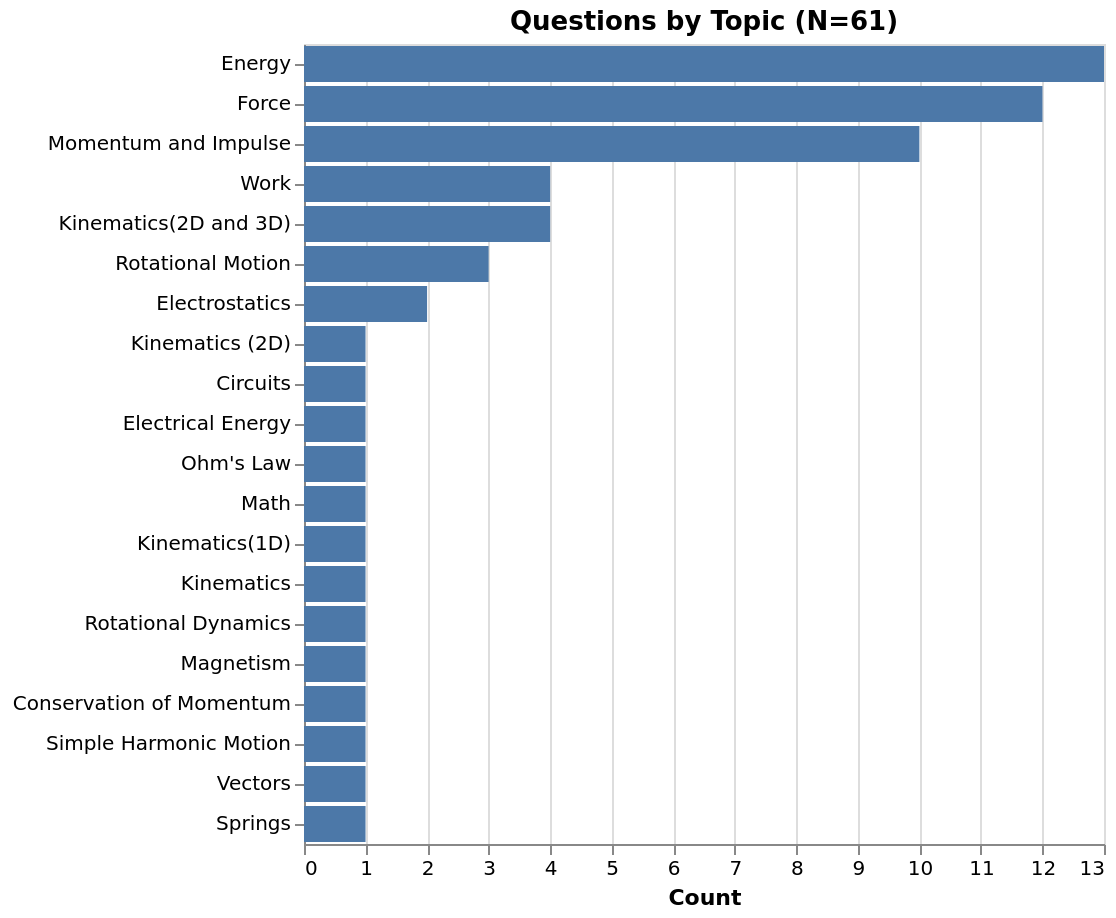
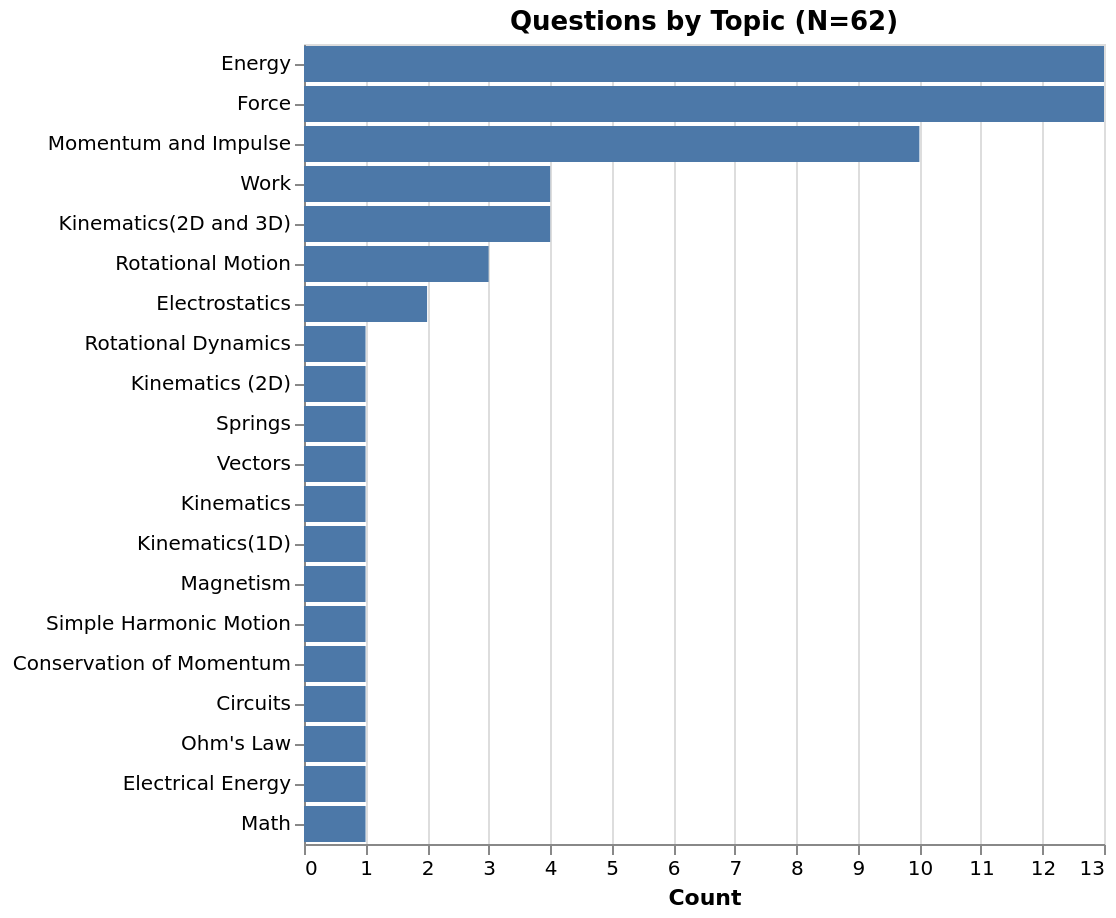
Update TOC via GH Action

diff --git a/content/index.md b/content/index.md
@@ -1,0 +1,67 @@
+# Question Index 
+ 
+ 
+ | Question | Public HTML | Public MD | Instructor MD | PL |
+| --------- | --------- | --------- | --------- | --------- |
+1 |  [Q 1](https://firas.moosvi.com/oer/physicsbank/content/content/public/002.Physics%20in%20General/Topic%20Outcome/test/test.html)| [Q 1](https://github.com/open-resources/physics_bank/blob/main/content/content/public/002.Physics%20in%20General/Topic%20Outcome/test/test.md) | [Q 1](https://github.com/open-resources/instructor_physics_bank/blob/main/output/content/instructor/002.Physics%20in%20General/Topic%20Outcome/test/test.md) | [TBD]() | 
+2 |  [Q 2](https://firas.moosvi.com/oer/physicsbank/content/content/public/008.Energy/Kinetic%20Energy/KE_testmass/KE_testmass.html)| [Q 2](https://github.com/open-resources/physics_bank/blob/main/content/content/public/008.Energy/Kinetic%20Energy/KE_testmass/KE_testmass.md) | [Q 2](https://github.com/open-resources/instructor_physics_bank/blob/main/output/content/instructor/008.Energy/Kinetic%20Energy/KE_testmass/KE_testmass.md) | [TBD]() | 
+3 |  [Q 3](https://firas.moosvi.com/oer/physicsbank/content/content/public/008.Energy/Kinetic%20Energy/KE_energy_momentum/KE_energy_momentum.html)| [Q 3](https://github.com/open-resources/physics_bank/blob/main/content/content/public/008.Energy/Kinetic%20Energy/KE_energy_momentum/KE_energy_momentum.md) | [Q 3](https://github.com/open-resources/instructor_physics_bank/blob/main/output/content/instructor/008.Energy/Kinetic%20Energy/KE_energy_momentum/KE_energy_momentum.md) | [TBD]() | 
+4 |  [Q 4](https://firas.moosvi.com/oer/physicsbank/content/content/public/008.Energy/Potential%20Energy/Collision%20of%20cart%20with%20spring/Collision%20of%20cart%20with%20spring.html)| [Q 4](https://github.com/open-resources/physics_bank/blob/main/content/content/public/008.Energy/Potential%20Energy/Collision%20of%20cart%20with%20spring/Collision%20of%20cart%20with%20spring.md) | [Q 4](https://github.com/open-resources/instructor_physics_bank/blob/main/output/content/instructor/008.Energy/Potential%20Energy/Collision%20of%20cart%20with%20spring/Collision%20of%20cart%20with%20spring.md) | [TBD]() | 
+5 |  [Q 5](https://firas.moosvi.com/oer/physicsbank/content/content/public/008.Energy/Topic%20Outcome/force_vs_position/force_vs_position.html)| [Q 5](https://github.com/open-resources/physics_bank/blob/main/content/content/public/008.Energy/Topic%20Outcome/force_vs_position/force_vs_position.md) | [Q 5](https://github.com/open-resources/instructor_physics_bank/blob/main/output/content/instructor/008.Energy/Topic%20Outcome/force_vs_position/force_vs_position.md) | [TBD]() | 
+6 |  [Q 6](https://firas.moosvi.com/oer/physicsbank/content/content/public/008.Energy/Topic%20Outcome/frictionless_track/frictionless_track.html)| [Q 6](https://github.com/open-resources/physics_bank/blob/main/content/content/public/008.Energy/Topic%20Outcome/frictionless_track/frictionless_track.md) | [Q 6](https://github.com/open-resources/instructor_physics_bank/blob/main/output/content/instructor/008.Energy/Topic%20Outcome/frictionless_track/frictionless_track.md) | [TBD]() | 
+7 |  [Q 7](https://firas.moosvi.com/oer/physicsbank/content/content/public/008.Energy/Topic%20Outcome/spring_oscillations/spring_oscillations.html)| [Q 7](https://github.com/open-resources/physics_bank/blob/main/content/content/public/008.Energy/Topic%20Outcome/spring_oscillations/spring_oscillations.md) | [Q 7](https://github.com/open-resources/instructor_physics_bank/blob/main/output/content/instructor/008.Energy/Topic%20Outcome/spring_oscillations/spring_oscillations.md) | [TBD]() | 
+8 |  [Q 8](https://firas.moosvi.com/oer/physicsbank/content/content/public/008.Energy/Conservation%20of%20Energy/dissipative_process/dissipative_process.html)| [Q 8](https://github.com/open-resources/physics_bank/blob/main/content/content/public/008.Energy/Conservation%20of%20Energy/dissipative_process/dissipative_process.md) | [Q 8](https://github.com/open-resources/instructor_physics_bank/blob/main/output/content/instructor/008.Energy/Conservation%20of%20Energy/dissipative_process/dissipative_process.md) | [TBD]() | 
+9 |  [Q 9](https://firas.moosvi.com/oer/physicsbank/content/content/public/008.Energy/Conservation%20of%20Energy/Energy%20lost%20to%20air%20friction/energy_lost_air_friction.html)| [Q 9](https://github.com/open-resources/physics_bank/blob/main/content/content/public/008.Energy/Conservation%20of%20Energy/Energy%20lost%20to%20air%20friction/energy_lost_air_friction.md) | [Q 9](https://github.com/open-resources/instructor_physics_bank/blob/main/output/content/instructor/008.Energy/Conservation%20of%20Energy/Energy%20lost%20to%20air%20friction/energy_lost_air_friction.md) | [TBD]() | 
+10 |  [Q 10](https://firas.moosvi.com/oer/physicsbank/content/content/public/008.Energy/Conservation%20of%20Energy/ball_race/2012Final_q3.html)| [Q 10](https://github.com/open-resources/physics_bank/blob/main/content/content/public/008.Energy/Conservation%20of%20Energy/ball_race/2012Final_q3.md) | [Q 10](https://github.com/open-resources/instructor_physics_bank/blob/main/output/content/instructor/008.Energy/Conservation%20of%20Energy/ball_race/2012Final_q3.md) | [TBD]() | 
+11 |  [Q 11](https://firas.moosvi.com/oer/physicsbank/content/content/public/008.Energy/Conservation%20of%20Energy/Physics%20of%20Roller%20Coasters/Physics%20of%20Roller%20Coasters.html)| [Q 11](https://github.com/open-resources/physics_bank/blob/main/content/content/public/008.Energy/Conservation%20of%20Energy/Physics%20of%20Roller%20Coasters/Physics%20of%20Roller%20Coasters.md) | [Q 11](https://github.com/open-resources/instructor_physics_bank/blob/main/output/content/instructor/008.Energy/Conservation%20of%20Energy/Physics%20of%20Roller%20Coasters/Physics%20of%20Roller%20Coasters.md) | [TBD]() | 
+12 |  [Q 12](https://firas.moosvi.com/oer/physicsbank/content/content/public/008.Energy/Conservation%20of%20Energy/Cut%20The%20Rope/Cut%20The%20Rope.html)| [Q 12](https://github.com/open-resources/physics_bank/blob/main/content/content/public/008.Energy/Conservation%20of%20Energy/Cut%20The%20Rope/Cut%20The%20Rope.md) | [Q 12](https://github.com/open-resources/instructor_physics_bank/blob/main/output/content/instructor/008.Energy/Conservation%20of%20Energy/Cut%20The%20Rope/Cut%20The%20Rope.md) | [TBD]() | 
+13 |  [Q 13](https://firas.moosvi.com/oer/physicsbank/content/content/public/008.Energy/Exploding_Asteroid/Exploding_Asteroid.html)| [Q 13](https://github.com/open-resources/physics_bank/blob/main/content/content/public/008.Energy/Exploding_Asteroid/Exploding_Asteroid.md) | [Q 13](https://github.com/open-resources/instructor_physics_bank/blob/main/output/content/instructor/008.Energy/Exploding_Asteroid/Exploding_Asteroid.md) | [TBD]() | 
+14 |  [Q 14](https://firas.moosvi.com/oer/physicsbank/content/content/public/011.Rotational%20Dynamics/Topic%20Outcome/thread_on_spool/thread_on_spool.html)| [Q 14](https://github.com/open-resources/physics_bank/blob/main/content/content/public/011.Rotational%20Dynamics/Topic%20Outcome/thread_on_spool/thread_on_spool.md) | [Q 14](https://github.com/open-resources/instructor_physics_bank/blob/main/output/content/instructor/011.Rotational%20Dynamics/Topic%20Outcome/thread_on_spool/thread_on_spool.md) | [TBD]() | 
+15 |  [Q 15](https://firas.moosvi.com/oer/physicsbank/content/content/public/005.Force/Topic%20Outcome/Frictionless%20Air%20Track/Frictionless%20Air%20Track.html)| [Q 15](https://github.com/open-resources/physics_bank/blob/main/content/content/public/005.Force/Topic%20Outcome/Frictionless%20Air%20Track/Frictionless%20Air%20Track.md) | [Q 15](https://github.com/open-resources/instructor_physics_bank/blob/main/output/content/instructor/005.Force/Topic%20Outcome/Frictionless%20Air%20Track/Frictionless%20Air%20Track.md) | [TBD]() | 
+16 |  [Q 16](https://firas.moosvi.com/oer/physicsbank/content/content/public/009.Work/Work-Energy%20Theorem/work_frictionless_surface/work_frictionless_surface.html)| [Q 16](https://github.com/open-resources/physics_bank/blob/main/content/content/public/009.Work/Work-Energy%20Theorem/work_frictionless_surface/work_frictionless_surface.md) | [Q 16](https://github.com/open-resources/instructor_physics_bank/blob/main/output/content/instructor/009.Work/Work-Energy%20Theorem/work_frictionless_surface/work_frictionless_surface.md) | [TBD]() | 
+17 |  [Q 17](https://firas.moosvi.com/oer/physicsbank/content/content/public/009.Work/Power/Energy%20Expenditure/Energy%20Expenditure.html)| [Q 17](https://github.com/open-resources/physics_bank/blob/main/content/content/public/009.Work/Power/Energy%20Expenditure/Energy%20Expenditure.md) | [Q 17](https://github.com/open-resources/instructor_physics_bank/blob/main/output/content/instructor/009.Work/Power/Energy%20Expenditure/Energy%20Expenditure.md) | [TBD]() | 
+18 |  [Q 18](https://firas.moosvi.com/oer/physicsbank/content/content/public/009.Work/Work/force_and_displacement/force_and_displacement.html)| [Q 18](https://github.com/open-resources/physics_bank/blob/main/content/content/public/009.Work/Work/force_and_displacement/force_and_displacement.md) | [Q 18](https://github.com/open-resources/instructor_physics_bank/blob/main/output/content/instructor/009.Work/Work/force_and_displacement/force_and_displacement.md) | [TBD]() | 
+19 |  [Q 19](https://firas.moosvi.com/oer/physicsbank/content/content/public/005.Kinematics%282D%20and%203D%29/Non-Uniform%20Circular%20Motion/Acceleration%20around%20a%20turn/Acceleration%20around%20a%20turn.html)| [Q 19](https://github.com/open-resources/physics_bank/blob/main/content/content/public/005.Kinematics%282D%20and%203D%29/Non-Uniform%20Circular%20Motion/Acceleration%20around%20a%20turn/Acceleration%20around%20a%20turn.md) | [Q 19](https://github.com/open-resources/instructor_physics_bank/blob/main/output/content/instructor/005.Kinematics%282D%20and%203D%29/Non-Uniform%20Circular%20Motion/Acceleration%20around%20a%20turn/Acceleration%20around%20a%20turn.md) | [TBD]() | 
+20 |  [Q 20](https://firas.moosvi.com/oer/physicsbank/content/content/public/005.Kinematics%282D%20and%203D%29/Non-Uniform%20Circular%20Motion/Turning_Car/Turning_car.html)| [Q 20](https://github.com/open-resources/physics_bank/blob/main/content/content/public/005.Kinematics%282D%20and%203D%29/Non-Uniform%20Circular%20Motion/Turning_Car/Turning_car.md) | [Q 20](https://github.com/open-resources/instructor_physics_bank/blob/main/output/content/instructor/005.Kinematics%282D%20and%203D%29/Non-Uniform%20Circular%20Motion/Turning_Car/Turning_car.md) | [TBD]() | 
+21 |  [Q 21](https://firas.moosvi.com/oer/physicsbank/content/content/public/005.Kinematics%282D%20and%203D%29/Projectile%20Motion/ski_jump/ski_jump.html)| [Q 21](https://github.com/open-resources/physics_bank/blob/main/content/content/public/005.Kinematics%282D%20and%203D%29/Projectile%20Motion/ski_jump/ski_jump.md) | [Q 21](https://github.com/open-resources/instructor_physics_bank/blob/main/output/content/instructor/005.Kinematics%282D%20and%203D%29/Projectile%20Motion/ski_jump/ski_jump.md) | [TBD]() | 
+22 |  [Q 22](https://firas.moosvi.com/oer/physicsbank/content/content/public/005.Kinematics%282D%20and%203D%29/Uniform%20Circular%20Motion/centripetal_force/centripetal_force.html)| [Q 22](https://github.com/open-resources/physics_bank/blob/main/content/content/public/005.Kinematics%282D%20and%203D%29/Uniform%20Circular%20Motion/centripetal_force/centripetal_force.md) | [Q 22](https://github.com/open-resources/instructor_physics_bank/blob/main/output/content/instructor/005.Kinematics%282D%20and%203D%29/Uniform%20Circular%20Motion/centripetal_force/centripetal_force.md) | [TBD]() | 
+23 |  [Q 23](https://firas.moosvi.com/oer/physicsbank/content/content/public/005.Kinematics%282D%20and%203D%29/Uniform%20Circular%20Motion/angular_speed/angular_speed.html)| [Q 23](https://github.com/open-resources/physics_bank/blob/main/content/content/public/005.Kinematics%282D%20and%203D%29/Uniform%20Circular%20Motion/angular_speed/angular_speed.md) | [Q 23](https://github.com/open-resources/instructor_physics_bank/blob/main/output/content/instructor/005.Kinematics%282D%20and%203D%29/Uniform%20Circular%20Motion/angular_speed/angular_speed.md) | [TBD]() | 
+24 |  [Q 24](https://firas.moosvi.com/oer/physicsbank/content/content/public/014.Elasticity/Topic%20Outcome/Identical%20Mass-Springs%20with%20different%20Displacement/Identical%20Mass-Springs%20with%20different%20Displacement.html)| [Q 24](https://github.com/open-resources/physics_bank/blob/main/content/content/public/014.Elasticity/Topic%20Outcome/Identical%20Mass-Springs%20with%20different%20Displacement/Identical%20Mass-Springs%20with%20different%20Displacement.md) | [Q 24](https://github.com/open-resources/instructor_physics_bank/blob/main/output/content/instructor/014.Elasticity/Topic%20Outcome/Identical%20Mass-Springs%20with%20different%20Displacement/Identical%20Mass-Springs%20with%20different%20Displacement.md) | [TBD]() | 
+25 |  [Q 25](https://firas.moosvi.com/oer/physicsbank/content/content/public/018.Electrostatics/Electric%20Potential/Particle%20between%20charged%20plates/Particle%20between%20charged%20plates.html)| [Q 25](https://github.com/open-resources/physics_bank/blob/main/content/content/public/018.Electrostatics/Electric%20Potential/Particle%20between%20charged%20plates/Particle%20between%20charged%20plates.md) | [Q 25](https://github.com/open-resources/instructor_physics_bank/blob/main/output/content/instructor/018.Electrostatics/Electric%20Potential/Particle%20between%20charged%20plates/Particle%20between%20charged%20plates.md) | [TBD]() | 
+26 |  [Q 26](https://firas.moosvi.com/oer/physicsbank/content/content/public/003.Vectors/Topic%20Outcome/Choose_all_Vectors_Scalars/Choose_all_Vectors_Scalars.html)| [Q 26](https://github.com/open-resources/physics_bank/blob/main/content/content/public/003.Vectors/Topic%20Outcome/Choose_all_Vectors_Scalars/Choose_all_Vectors_Scalars.md) | [Q 26](https://github.com/open-resources/instructor_physics_bank/blob/main/output/content/instructor/003.Vectors/Topic%20Outcome/Choose_all_Vectors_Scalars/Choose_all_Vectors_Scalars.md) | [TBD]() | 
+27 |  [Q 27](https://firas.moosvi.com/oer/physicsbank/content/content/public/004.Kinematics%281D%29/Position/distance_travelled/distance_travelled.html)| [Q 27](https://github.com/open-resources/physics_bank/blob/main/content/content/public/004.Kinematics%281D%29/Position/distance_travelled/distance_travelled.md) | [Q 27](https://github.com/open-resources/instructor_physics_bank/blob/main/output/content/instructor/004.Kinematics%281D%29/Position/distance_travelled/distance_travelled.md) | [TBD]() | 
+28 |  [Q 28](https://firas.moosvi.com/oer/physicsbank/content/content/public/004.Kinematics%281D%29/Motion%20Diagrams/Running_Dog/Running_Dog.html)| [Q 28](https://github.com/open-resources/physics_bank/blob/main/content/content/public/004.Kinematics%281D%29/Motion%20Diagrams/Running_Dog/Running_Dog.md) | [Q 28](https://github.com/open-resources/instructor_physics_bank/blob/main/output/content/instructor/004.Kinematics%281D%29/Motion%20Diagrams/Running_Dog/Running_Dog.md) | [TBD]() | 
+29 |  [Q 29](https://firas.moosvi.com/oer/physicsbank/content/content/public/010.Rotational%20Motion/Rotational%20Energy/Inertia%20of%20T-shaped%20rod/Inertia%20of%20T-shaped%20rod.html)| [Q 29](https://github.com/open-resources/physics_bank/blob/main/content/content/public/010.Rotational%20Motion/Rotational%20Energy/Inertia%20of%20T-shaped%20rod/Inertia%20of%20T-shaped%20rod.md) | [Q 29](https://github.com/open-resources/instructor_physics_bank/blob/main/output/content/instructor/010.Rotational%20Motion/Rotational%20Energy/Inertia%20of%20T-shaped%20rod/Inertia%20of%20T-shaped%20rod.md) | [TBD]() | 
+30 |  [Q 30](https://firas.moosvi.com/oer/physicsbank/content/content/public/010.Rotational%20Motion/Rolling%20Motion/Rolling_without_slipping/Rolling_without_slipping.html)| [Q 30](https://github.com/open-resources/physics_bank/blob/main/content/content/public/010.Rotational%20Motion/Rolling%20Motion/Rolling_without_slipping/Rolling_without_slipping.md) | [Q 30](https://github.com/open-resources/instructor_physics_bank/blob/main/output/content/instructor/010.Rotational%20Motion/Rolling%20Motion/Rolling_without_slipping/Rolling_without_slipping.md) | [TBD]() | 
+31 |  [Q 31](https://firas.moosvi.com/oer/physicsbank/content/content/public/010.Rotational%20Motion/Topic%20Outcome/Wheel_of_fortune/Wheel_of_fortune.html)| [Q 31](https://github.com/open-resources/physics_bank/blob/main/content/content/public/010.Rotational%20Motion/Topic%20Outcome/Wheel_of_fortune/Wheel_of_fortune.md) | [Q 31](https://github.com/open-resources/instructor_physics_bank/blob/main/output/content/instructor/010.Rotational%20Motion/Topic%20Outcome/Wheel_of_fortune/Wheel_of_fortune.md) | [TBD]() | 
+32 |  [Q 32](https://firas.moosvi.com/oer/physicsbank/content/content/public/019.Magnetism/Magnetic%20Force/Electron%20in%20a%20Solenoid/Electron%20in%20a%20Solenoid.html)| [Q 32](https://github.com/open-resources/physics_bank/blob/main/content/content/public/019.Magnetism/Magnetic%20Force/Electron%20in%20a%20Solenoid/Electron%20in%20a%20Solenoid.md) | [Q 32](https://github.com/open-resources/instructor_physics_bank/blob/main/output/content/instructor/019.Magnetism/Magnetic%20Force/Electron%20in%20a%20Solenoid/Electron%20in%20a%20Solenoid.md) | [TBD]() | 
+33 |  [Q 33](https://firas.moosvi.com/oer/physicsbank/content/content/public/006.Force/Friction/Frictional%20Force%20between%20tires%20and%20road/Frictional%20Force%20between%20tires%20and%20road.html)| [Q 33](https://github.com/open-resources/physics_bank/blob/main/content/content/public/006.Force/Friction/Frictional%20Force%20between%20tires%20and%20road/Frictional%20Force%20between%20tires%20and%20road.md) | [Q 33](https://github.com/open-resources/instructor_physics_bank/blob/main/output/content/instructor/006.Force/Friction/Frictional%20Force%20between%20tires%20and%20road/Frictional%20Force%20between%20tires%20and%20road.md) | [TBD]() | 
+34 |  [Q 34](https://firas.moosvi.com/oer/physicsbank/content/content/public/006.Force/Friction/spring_on_ramp/spring_on_ramp.html)| [Q 34](https://github.com/open-resources/physics_bank/blob/main/content/content/public/006.Force/Friction/spring_on_ramp/spring_on_ramp.md) | [Q 34](https://github.com/open-resources/instructor_physics_bank/blob/main/output/content/instructor/006.Force/Friction/spring_on_ramp/spring_on_ramp.md) | [TBD]() | 
+35 |  [Q 35](https://firas.moosvi.com/oer/physicsbank/content/content/public/006.Force/Dynamics%20of%20Circular%20Motion/object_on_string/object_on_string.html)| [Q 35](https://github.com/open-resources/physics_bank/blob/main/content/content/public/006.Force/Dynamics%20of%20Circular%20Motion/object_on_string/object_on_string.md) | [Q 35](https://github.com/open-resources/instructor_physics_bank/blob/main/output/content/instructor/006.Force/Dynamics%20of%20Circular%20Motion/object_on_string/object_on_string.md) | [TBD]() | 
+36 |  [Q 36](https://firas.moosvi.com/oer/physicsbank/content/content/public/006.Force/Topic%20Outcome/The%20max%20acceleration%20without%20slipping/The%20max%20acceleration%20without%20slipping.html)| [Q 36](https://github.com/open-resources/physics_bank/blob/main/content/content/public/006.Force/Topic%20Outcome/The%20max%20acceleration%20without%20slipping/The%20max%20acceleration%20without%20slipping.md) | [Q 36](https://github.com/open-resources/instructor_physics_bank/blob/main/output/content/instructor/006.Force/Topic%20Outcome/The%20max%20acceleration%20without%20slipping/The%20max%20acceleration%20without%20slipping.md) | [TBD]() | 
+37 |  [Q 37](https://firas.moosvi.com/oer/physicsbank/content/content/public/006.Force/Topic%20Outcome/ropes_and_blocks/ropes_and_blocks.html)| [Q 37](https://github.com/open-resources/physics_bank/blob/main/content/content/public/006.Force/Topic%20Outcome/ropes_and_blocks/ropes_and_blocks.md) | [Q 37](https://github.com/open-resources/instructor_physics_bank/blob/main/output/content/instructor/006.Force/Topic%20Outcome/ropes_and_blocks/ropes_and_blocks.md) | [TBD]() | 
+38 |  [Q 38](https://firas.moosvi.com/oer/physicsbank/content/content/public/006.Force/Topic%20Outcome/Rotating%20ball/Rotating%20ball.html)| [Q 38](https://github.com/open-resources/physics_bank/blob/main/content/content/public/006.Force/Topic%20Outcome/Rotating%20ball/Rotating%20ball.md) | [Q 38](https://github.com/open-resources/instructor_physics_bank/blob/main/output/content/instructor/006.Force/Topic%20Outcome/Rotating%20ball/Rotating%20ball.md) | [TBD]() | 
+39 |  [Q 39](https://firas.moosvi.com/oer/physicsbank/content/content/public/006.Force/Topic%20Outcome/velocity_netforce/velocity_netforce.html)| [Q 39](https://github.com/open-resources/physics_bank/blob/main/content/content/public/006.Force/Topic%20Outcome/velocity_netforce/velocity_netforce.md) | [Q 39](https://github.com/open-resources/instructor_physics_bank/blob/main/output/content/instructor/006.Force/Topic%20Outcome/velocity_netforce/velocity_netforce.md) | [TBD]() | 
+40 |  [Q 40](https://firas.moosvi.com/oer/physicsbank/content/content/public/006.Force/Topic%20Outcome/Elevator%20Movement%20Direction/Elevator%20Movement%20Direction.html)| [Q 40](https://github.com/open-resources/physics_bank/blob/main/content/content/public/006.Force/Topic%20Outcome/Elevator%20Movement%20Direction/Elevator%20Movement%20Direction.md) | [Q 40](https://github.com/open-resources/instructor_physics_bank/blob/main/output/content/instructor/006.Force/Topic%20Outcome/Elevator%20Movement%20Direction/Elevator%20Movement%20Direction.md) | [TBD]() | 
+41 |  [Q 41](https://firas.moosvi.com/oer/physicsbank/content/content/public/006.Force/Topic%20Outcome/spring_on_incline/spring_on_incline.html)| [Q 41](https://github.com/open-resources/physics_bank/blob/main/content/content/public/006.Force/Topic%20Outcome/spring_on_incline/spring_on_incline.md) | [Q 41](https://github.com/open-resources/instructor_physics_bank/blob/main/output/content/instructor/006.Force/Topic%20Outcome/spring_on_incline/spring_on_incline.md) | [TBD]() | 
+42 |  [Q 42](https://firas.moosvi.com/oer/physicsbank/content/content/public/006.Force/Equilibrium/Two%20blocks%20connected%20by%20a%20string/Two%20Blocks%20Connected%20by%20a%20String.html)| [Q 42](https://github.com/open-resources/physics_bank/blob/main/content/content/public/006.Force/Equilibrium/Two%20blocks%20connected%20by%20a%20string/Two%20Blocks%20Connected%20by%20a%20String.md) | [Q 42](https://github.com/open-resources/instructor_physics_bank/blob/main/output/content/instructor/006.Force/Equilibrium/Two%20blocks%20connected%20by%20a%20string/Two%20Blocks%20Connected%20by%20a%20String.md) | [TBD]() | 
+43 |  [Q 43](https://firas.moosvi.com/oer/physicsbank/content/content/public/006.Force/Free%20Body%20Diagrams/pulley_on_truck/pulley_on_truck.html)| [Q 43](https://github.com/open-resources/physics_bank/blob/main/content/content/public/006.Force/Free%20Body%20Diagrams/pulley_on_truck/pulley_on_truck.md) | [Q 43](https://github.com/open-resources/instructor_physics_bank/blob/main/output/content/instructor/006.Force/Free%20Body%20Diagrams/pulley_on_truck/pulley_on_truck.md) | [TBD]() | 
+44 |  [Q 44](https://firas.moosvi.com/oer/physicsbank/content/content/public/006.Force/Newton%27s%20Third%20Law/Force%20Vectors/force_vectors.html)| [Q 44](https://github.com/open-resources/physics_bank/blob/main/content/content/public/006.Force/Newton%27s%20Third%20Law/Force%20Vectors/force_vectors.md) | [Q 44](https://github.com/open-resources/instructor_physics_bank/blob/main/output/content/instructor/006.Force/Newton%27s%20Third%20Law/Force%20Vectors/force_vectors.md) | [TBD]() | 
+45 |  [Q 45](https://firas.moosvi.com/oer/physicsbank/content/content/public/006.Force/Springs/Bungee_jumping/bungee_jumping.html)| [Q 45](https://github.com/open-resources/physics_bank/blob/main/content/content/public/006.Force/Springs/Bungee_jumping/bungee_jumping.md) | [Q 45](https://github.com/open-resources/instructor_physics_bank/blob/main/output/content/instructor/006.Force/Springs/Bungee_jumping/bungee_jumping.md) | [TBD]() | 
+46 |  [Q 46](https://firas.moosvi.com/oer/physicsbank/content/content/public/007.Momentum%20and%20Impulse/Impulse/Bouncing_Ball/Bouncing_Ball.html)| [Q 46](https://github.com/open-resources/physics_bank/blob/main/content/content/public/007.Momentum%20and%20Impulse/Impulse/Bouncing_Ball/Bouncing_Ball.md) | [Q 46](https://github.com/open-resources/instructor_physics_bank/blob/main/output/content/instructor/007.Momentum%20and%20Impulse/Impulse/Bouncing_Ball/Bouncing_Ball.md) | [TBD]() | 
+47 |  [Q 47](https://firas.moosvi.com/oer/physicsbank/content/content/public/007.Momentum%20and%20Impulse/Impulse/airbag_collision/airbag_collision.html)| [Q 47](https://github.com/open-resources/physics_bank/blob/main/content/content/public/007.Momentum%20and%20Impulse/Impulse/airbag_collision/airbag_collision.md) | [Q 47](https://github.com/open-resources/instructor_physics_bank/blob/main/output/content/instructor/007.Momentum%20and%20Impulse/Impulse/airbag_collision/airbag_collision.md) | [TBD]() | 
+48 |  [Q 48](https://firas.moosvi.com/oer/physicsbank/content/content/public/007.Momentum%20and%20Impulse/2D%20Collisions/light_heavy_collision/light_heavy_collision.html)| [Q 48](https://github.com/open-resources/physics_bank/blob/main/content/content/public/007.Momentum%20and%20Impulse/2D%20Collisions/light_heavy_collision/light_heavy_collision.md) | [Q 48](https://github.com/open-resources/instructor_physics_bank/blob/main/output/content/instructor/007.Momentum%20and%20Impulse/2D%20Collisions/light_heavy_collision/light_heavy_collision.md) | [TBD]() | 
+49 |  [Q 49](https://firas.moosvi.com/oer/physicsbank/content/content/public/007.Momentum%20and%20Impulse/2D%20Collisions/billiards_collision/billiards_collision.html)| [Q 49](https://github.com/open-resources/physics_bank/blob/main/content/content/public/007.Momentum%20and%20Impulse/2D%20Collisions/billiards_collision/billiards_collision.md) | [Q 49](https://github.com/open-resources/instructor_physics_bank/blob/main/output/content/instructor/007.Momentum%20and%20Impulse/2D%20Collisions/billiards_collision/billiards_collision.md) | [TBD]() | 
+50 |  [Q 50](https://firas.moosvi.com/oer/physicsbank/content/content/public/007.Momentum%20and%20Impulse/Conservation%20of%20Momentum/System_Open_or_Closed/System_Open_or_Closed.html)| [Q 50](https://github.com/open-resources/physics_bank/blob/main/content/content/public/007.Momentum%20and%20Impulse/Conservation%20of%20Momentum/System_Open_or_Closed/System_Open_or_Closed.md) | [Q 50](https://github.com/open-resources/instructor_physics_bank/blob/main/output/content/instructor/007.Momentum%20and%20Impulse/Conservation%20of%20Momentum/System_Open_or_Closed/System_Open_or_Closed.md) | [TBD]() | 
+51 |  [Q 51](https://firas.moosvi.com/oer/physicsbank/content/content/public/007.Momentum%20and%20Impulse/Conservation%20of%20Momentum/mass_spring_collision/mass_spring_collision.html)| [Q 51](https://github.com/open-resources/physics_bank/blob/main/content/content/public/007.Momentum%20and%20Impulse/Conservation%20of%20Momentum/mass_spring_collision/mass_spring_collision.md) | [Q 51](https://github.com/open-resources/instructor_physics_bank/blob/main/output/content/instructor/007.Momentum%20and%20Impulse/Conservation%20of%20Momentum/mass_spring_collision/mass_spring_collision.md) | [TBD]() | 
+52 |  [Q 52](https://firas.moosvi.com/oer/physicsbank/content/content/public/007.Momentum%20and%20Impulse/Conservation%20of%20Momentum/Explosions_and_Velocity/Explosions_and_Velocity.html)| [Q 52](https://github.com/open-resources/physics_bank/blob/main/content/content/public/007.Momentum%20and%20Impulse/Conservation%20of%20Momentum/Explosions_and_Velocity/Explosions_and_Velocity.md) | [Q 52](https://github.com/open-resources/instructor_physics_bank/blob/main/output/content/instructor/007.Momentum%20and%20Impulse/Conservation%20of%20Momentum/Explosions_and_Velocity/Explosions_and_Velocity.md) | [TBD]() | 
+53 |  [Q 53](https://firas.moosvi.com/oer/physicsbank/content/content/public/007.Momentum%20and%20Impulse/Conservation%20of%20Momentum/Raindrops_Collision/raindrops_collision.html)| [Q 53](https://github.com/open-resources/physics_bank/blob/main/content/content/public/007.Momentum%20and%20Impulse/Conservation%20of%20Momentum/Raindrops_Collision/raindrops_collision.md) | [Q 53](https://github.com/open-resources/instructor_physics_bank/blob/main/output/content/instructor/007.Momentum%20and%20Impulse/Conservation%20of%20Momentum/Raindrops_Collision/raindrops_collision.md) | [TBD]() | 
+54 |  [Q 54](https://firas.moosvi.com/oer/physicsbank/content/content/public/007.Momentum%20and%20Impulse/Conservation%20of%20Momentum/Isolated_systems/Isolated_systems.html)| [Q 54](https://github.com/open-resources/physics_bank/blob/main/content/content/public/007.Momentum%20and%20Impulse/Conservation%20of%20Momentum/Isolated_systems/Isolated_systems.md) | [Q 54](https://github.com/open-resources/instructor_physics_bank/blob/main/output/content/instructor/007.Momentum%20and%20Impulse/Conservation%20of%20Momentum/Isolated_systems/Isolated_systems.md) | [TBD]() | 
+55 |  [Q 55](https://firas.moosvi.com/oer/physicsbank/content/content/public/007.Momentum%20and%20Impulse/Momentum/Momentum_and_Inertia/Momentum_and_Inertia.html)| [Q 55](https://github.com/open-resources/physics_bank/blob/main/content/content/public/007.Momentum%20and%20Impulse/Momentum/Momentum_and_Inertia/Momentum_and_Inertia.md) | [Q 55](https://github.com/open-resources/instructor_physics_bank/blob/main/output/content/instructor/007.Momentum%20and%20Impulse/Momentum/Momentum_and_Inertia/Momentum_and_Inertia.md) | [TBD]() | 
+56 |  [Q 56](https://firas.moosvi.com/oer/physicsbank/content/content/public/007.Momentum%20and%20Impulse/Momentum/Rock_Powered_Rocket/Rock_Powered_Rocket.html)| [Q 56](https://github.com/open-resources/physics_bank/blob/main/content/content/public/007.Momentum%20and%20Impulse/Momentum/Rock_Powered_Rocket/Rock_Powered_Rocket.md) | [Q 56](https://github.com/open-resources/instructor_physics_bank/blob/main/output/content/instructor/007.Momentum%20and%20Impulse/Momentum/Rock_Powered_Rocket/Rock_Powered_Rocket.md) | [TBD]() | 
+57 |  [Q 57](https://firas.moosvi.com/oer/physicsbank/content/content/public/007.Momentum%20and%20Impulse/Momentum/Dinner_Plate/dinner_plate.html)| [Q 57](https://github.com/open-resources/physics_bank/blob/main/content/content/public/007.Momentum%20and%20Impulse/Momentum/Dinner_Plate/dinner_plate.md) | [Q 57](https://github.com/open-resources/instructor_physics_bank/blob/main/output/content/instructor/007.Momentum%20and%20Impulse/Momentum/Dinner_Plate/dinner_plate.md) | [TBD]() | 
+58 |  [Q 58](https://firas.moosvi.com/oer/physicsbank/content/content/public/021.Circuits/RC%20Circuits/OSUPv2p10_16/OSUPv2p10_16.html)| [Q 58](https://github.com/open-resources/physics_bank/blob/main/content/content/public/021.Circuits/RC%20Circuits/OSUPv2p10_16/OSUPv2p10_16.md) | [Q 58](https://github.com/open-resources/instructor_physics_bank/blob/main/output/content/instructor/021.Circuits/RC%20Circuits/OSUPv2p10_16/OSUPv2p10_16.md) | [TBD]() | 
+59 |  [Q 59](https://firas.moosvi.com/oer/physicsbank/content/content/public/021.Circuits/Ohm%27s%20Law/OSUPv2.9.13/OSUPv2.9.13.html)| [Q 59](https://github.com/open-resources/physics_bank/blob/main/content/content/public/021.Circuits/Ohm%27s%20Law/OSUPv2.9.13/OSUPv2.9.13.md) | [Q 59](https://github.com/open-resources/instructor_physics_bank/blob/main/output/content/instructor/021.Circuits/Ohm%27s%20Law/OSUPv2.9.13/OSUPv2.9.13.md) | [TBD]() | 
+60 |  [Q 60](https://firas.moosvi.com/oer/physicsbank/content/content/public/021.Circuits/Electrical%20Energy/OSUPv2.9.16/OSUPv2.9.16.html)| [Q 60](https://github.com/open-resources/physics_bank/blob/main/content/content/public/021.Circuits/Electrical%20Energy/OSUPv2.9.16/OSUPv2.9.16.md) | [Q 60](https://github.com/open-resources/instructor_physics_bank/blob/main/output/content/instructor/021.Circuits/Electrical%20Energy/OSUPv2.9.16/OSUPv2.9.16.md) | [TBD]() | 
+61 |  [Q 61](https://firas.moosvi.com/oer/physicsbank/content/content/public/021.Circuits/Current/OSUPv2.9.2/OSUPv2.9.2.html)| [Q 61](https://github.com/open-resources/physics_bank/blob/main/content/content/public/021.Circuits/Current/OSUPv2.9.2/OSUPv2.9.2.md) | [Q 61](https://github.com/open-resources/instructor_physics_bank/blob/main/output/content/instructor/021.Circuits/Current/OSUPv2.9.2/OSUPv2.9.2.md) | [TBD]() | 
+62 |  [Q 62](https://firas.moosvi.com/oer/physicsbank/content/content/public/001.Math/Integrals/Rocket/Rocket.html)| [Q 62](https://github.com/open-resources/physics_bank/blob/main/content/content/public/001.Math/Integrals/Rocket/Rocket.md) | [Q 62](https://github.com/open-resources/instructor_physics_bank/blob/main/output/content/instructor/001.Math/Integrals/Rocket/Rocket.md) | [TBD]() | 
